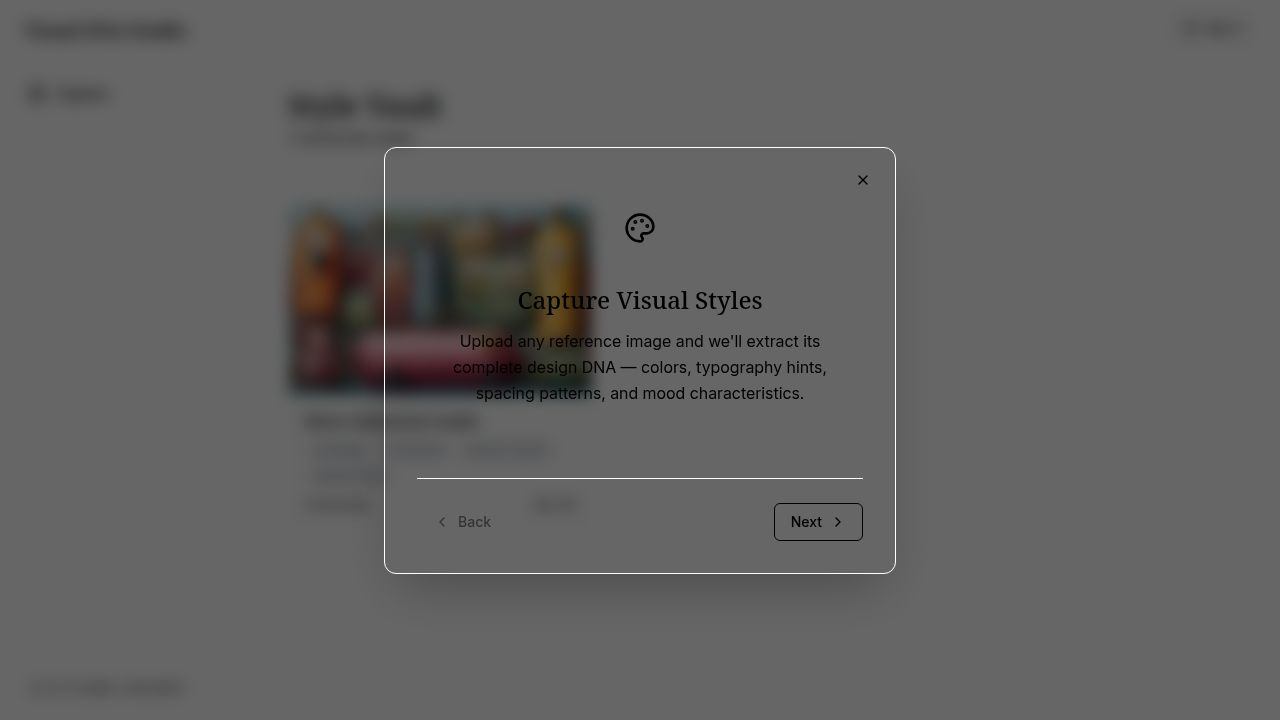
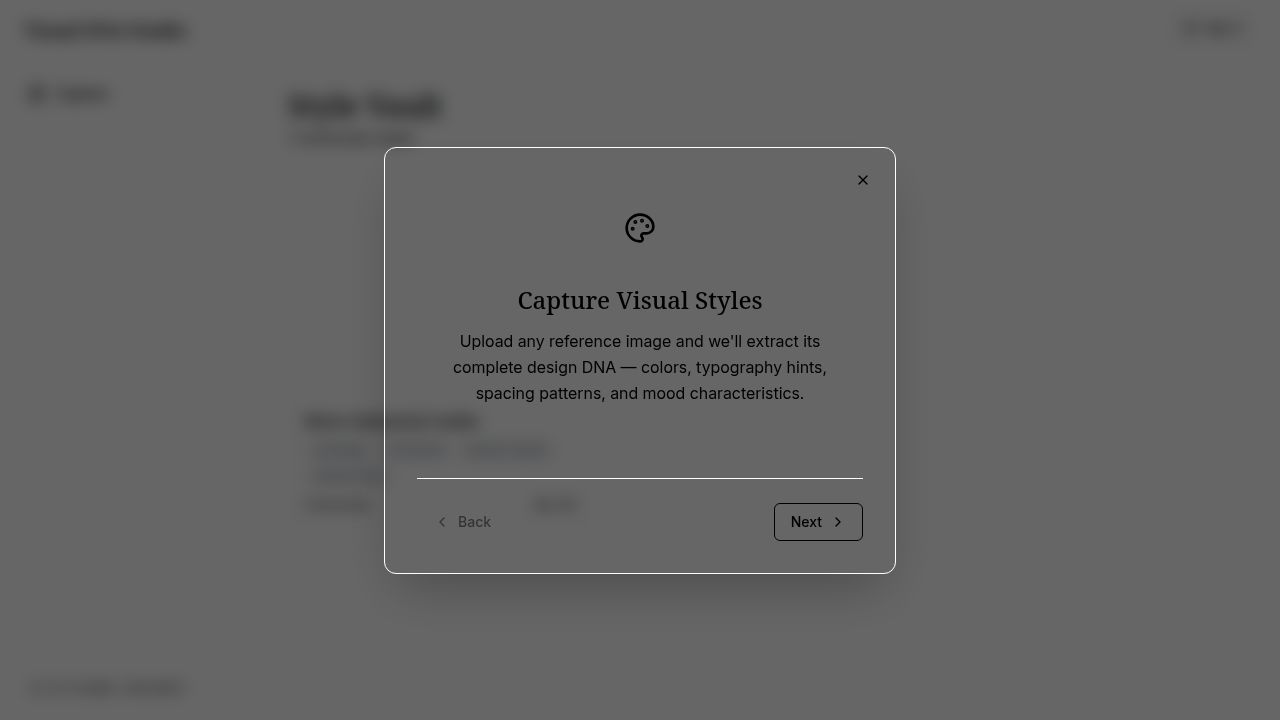
Improve readability of onboarding modal text
Change background class on onboarding modal from bg-card to bg-background for better contrast.

Replit-Commit-Author: Agent
Replit-Commit-Session-Id: fa657e97-1ed4-4895-900b-776ff19d22ff
Replit-Commit-Checkpoint-Type: intermediate_checkpoint
Replit-Commit-Event-Id: 842e36e2-11cb-4e84-a146-fa5fcbb942e7
Replit-Commit-Screenshot-Url: https://storage.googleapis.com/screenshot-production-us-central1/e43eaa2a-55da-4e99-b18b-f69fb4f8d631/fa657e97-1ed4-4895-900b-776ff19d22ff/6lDYczd
Replit-Helium-Checkpoint-Created: true

Changed region(s): [[0.2188, 0.275, 0.4688, 0.5806]]

diff --git a/client/src/components/onboarding.tsx b/client/src/components/onboarding.tsx
@@ -106,7 +106,7 @@ export function OnboardingModal({ isOpen, onClose }: OnboardingModalProps) {
             exit={{ scale: 0.95, opacity: 0 }}
             transition={{ type: "spring" as const, stiffness: 300, damping: 25 }}
             onClick={(e) => e.stopPropagation()}
-            className="relative w-full max-w-lg bg-card border border-border rounded-xl shadow-2xl overflow-hidden"
+            className="relative w-full max-w-lg bg-background border border-border rounded-xl shadow-2xl overflow-hidden"
           >
             <button
               onClick={handleSkip}
